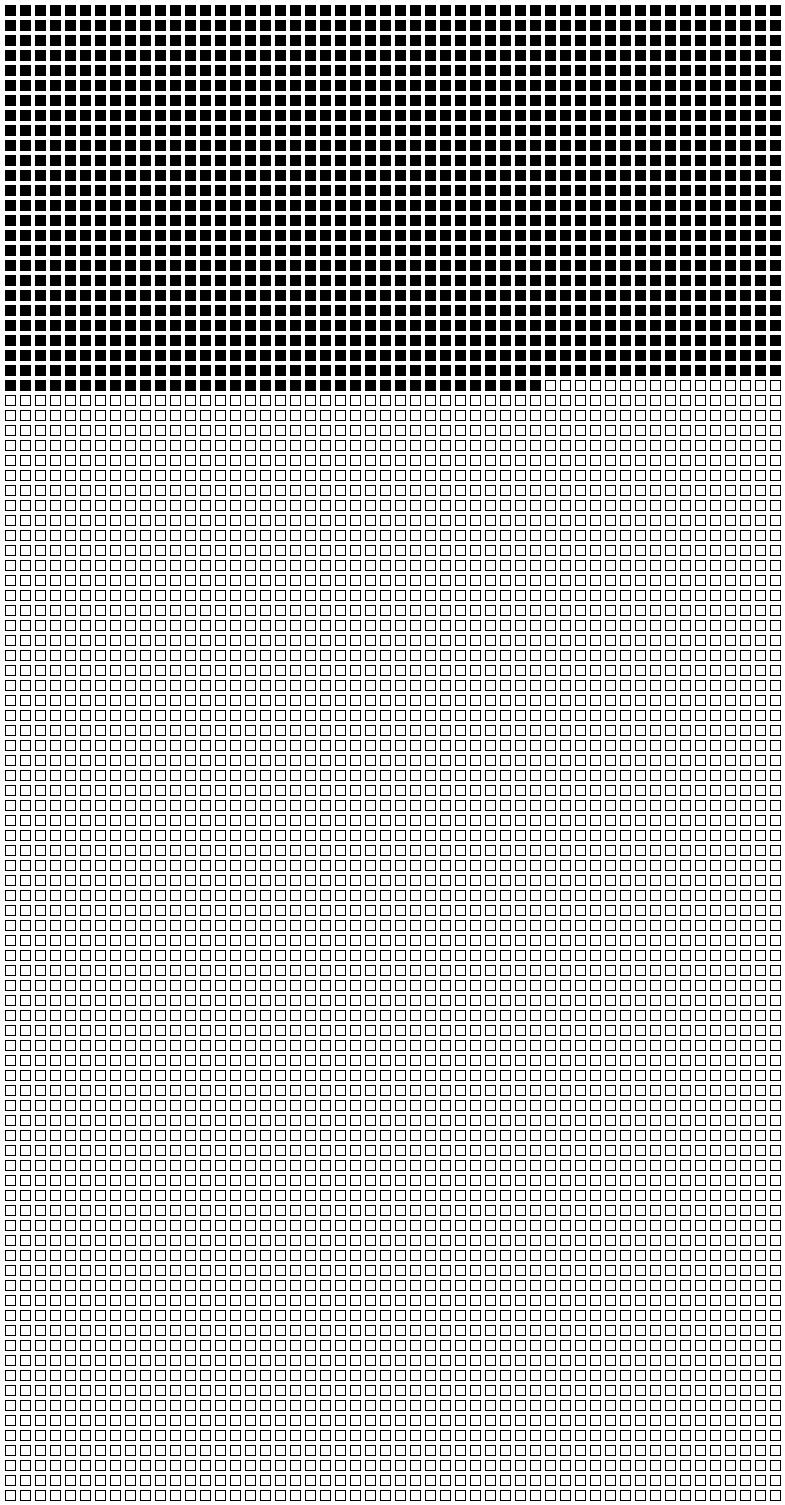
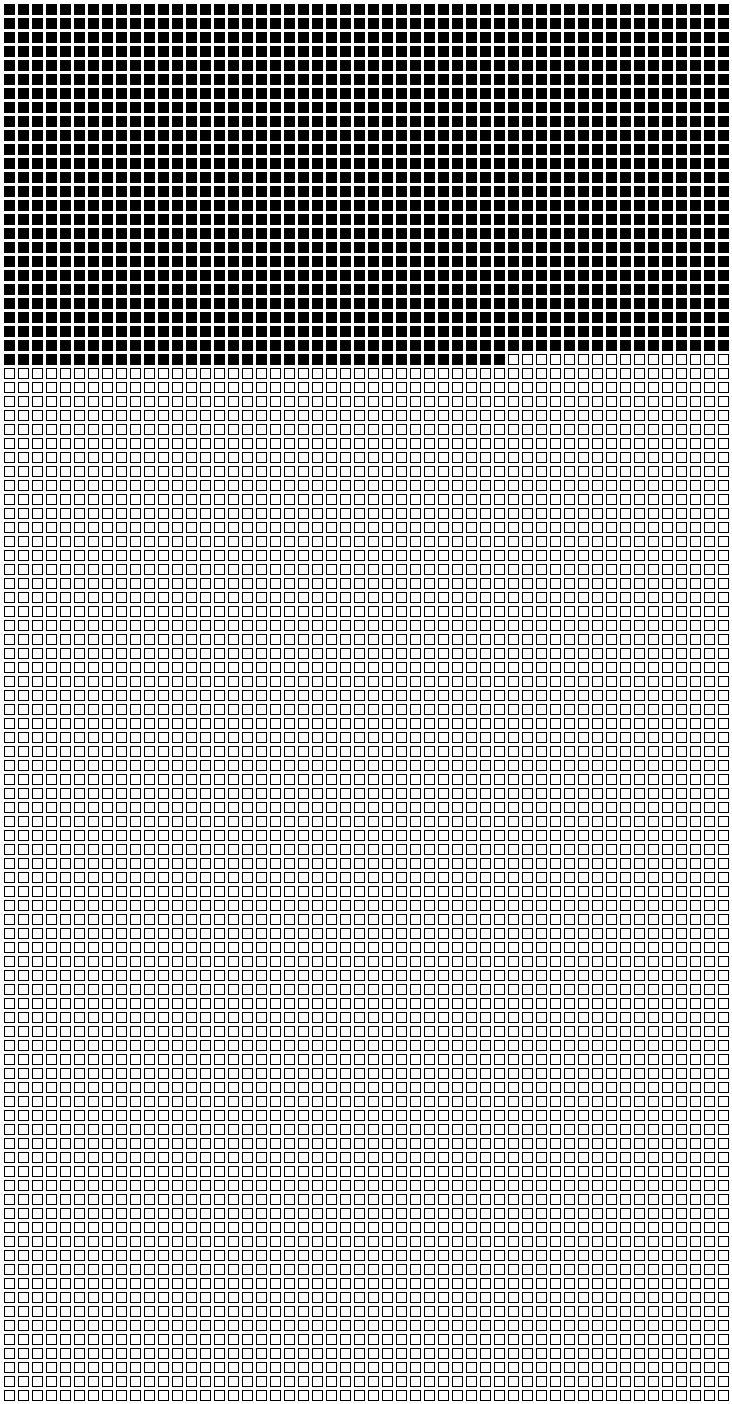
updated image

diff --git a/life-visualizer.py b/life-visualizer.py
@@ -21,7 +21,7 @@ print(segs_alive)
 count = 0
 # segs_alive = age*52
 sq_size = 10
-margin = 5
+margin = 4
 lifespan = 100
 n = (sq_size + margin) * num_in_year + margin
 m = (sq_size + margin) * lifespan + margin
